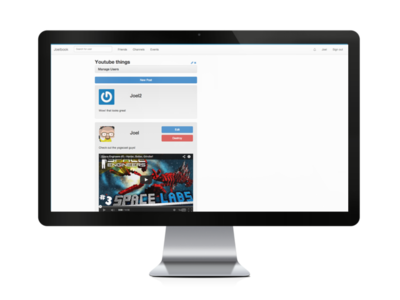
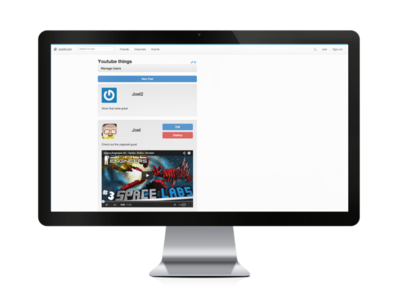
Fix errors on home and channels index

Changed region(s): [[0.24, 0.18, 0.51, 0.72], [0.33, 0.42, 0.36, 0.45]]

diff --git a/app/assets/stylesheets/application.css.scss b/app/assets/stylesheets/application.css.scss
@@ -641,19 +641,38 @@ li.notification {
 }
 
 .imac {
-  @media (min-width: 1199px) {
-    margin-top:-20%;
+  &.logged-in {
+    @media (min-width: 1199px) {
+      margin-top:-20%;
+    }
+    @media (min-width: 990px) and (max-width: 1200px) {
+     margin-top:-25%;
+    }
+    @media (min-width: 620px) and (max-width: 991px) {
+     margin-top:-15%;
+    }
+    @media (min-width: 424px) and (max-width: 621px) {
+      margin-top:-20%;
+    }
+    @media (max-width: 425px) {
+      margin-top:-30%;
+    }
   }
-  @media (min-width: 990px) and (max-width: 1200px) {
-   margin-top:-25%;
-  }
-  @media (min-width: 620px) and (max-width: 991px) {
-   margin-top:-15%;
-  }
-  @media (min-width: 424px) and (max-width: 621px) {
-    margin-top:-20%;
-  }
-  @media (max-width: 425px) {
-    margin-top:-30%;
+  &.logged-out {
+    @media (min-width: 1199px) {
+      margin-top:-17.5%;
+    }
+    @media (min-width: 990px) and (max-width: 1200px) {
+     margin-top:-22.5%;
+    }
+    @media (min-width: 620px) and (max-width: 991px) {
+     margin-top:-12.5%;
+    }
+    @media (min-width: 424px) and (max-width: 621px) {
+      margin-top:-15%;
+    }
+    @media (max-width: 425px) {
+      margin-top:-25%;
+    }
   }
 }

diff --git a/app/controllers/channels_controller.rb b/app/controllers/channels_controller.rb
@@ -5,6 +5,7 @@ class ChannelsController < ApplicationController
   end
 
   def create
+    params[:channel].delete :page
     @channel = Channel.new(params[:channel].merge(:owner_user_id => current_user.id))
     @channel.users << current_user
     if @channel.save
